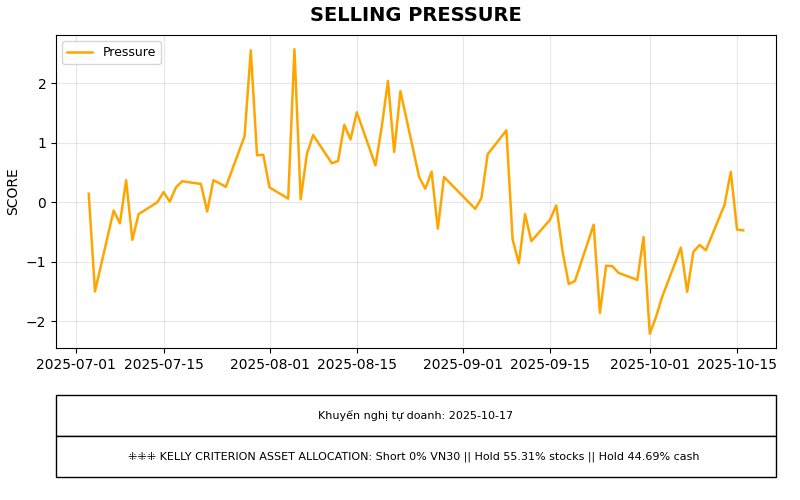
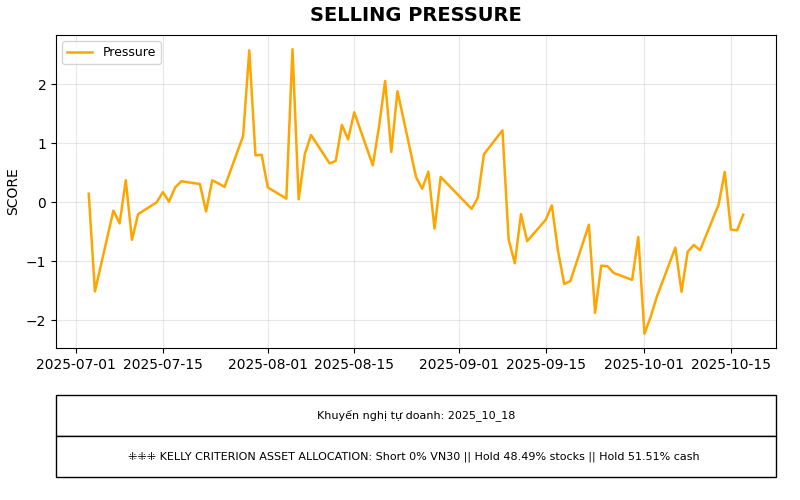
18-10

diff --git a/send_noti.py b/send_noti.py
@@ -2,7 +2,7 @@ import requests
 from datetime import date, datetime, timezone, timedelta
 import json
 import pandas as pd
-from weighting.func_ranking import message
+# from weighting.func_ranking import message
 
 WEBHOOK_URL_REGIME = "https://defaultfaae79b27e8f423993e3c7b5cb5b2e.4b.environment.api.powerplatform.com:443/powerautomate/automations/direct/workflows/4fd6c1601f964b629b661216b6e77d77/triggers/manual/paths/invoke?api-version=1&sp=%2Ftriggers%2Fmanual%2Frun&sv=1.0&sig=iMCAtWfMIRWmYuLWWUtLZUuT4-JpXmHjw6v0IdWXAxE"
 WEBHOOK_URL_AA = "https://defaultfaae79b27e8f423993e3c7b5cb5b2e.4b.environment.api.powerplatform.com:443/powerautomate/automations/direct/workflows/3975339ef26c47829f1d26865d746a7c/triggers/manual/paths/invoke?api-version=1&sp=%2Ftriggers%2Fmanual%2Frun&sv=1.0&sig=SK1Fzr1fRsbfp9zxnHNmqaJXO65JR9pIanZLZ8G8qck"
@@ -50,9 +50,9 @@ if __name__ == "__main__":
         print("Status:", asset_allocation.status_code)
         print("Response:", asset_allocation.text)
 
-        # Send Weight
-        weight = send_teams_message(WEBHOOK_URL_WEIGHT, message)
-        print("Status:", weight.status_code)
-        print("Response:", weight.text)
+        # # Send Weight
+        # weight = send_teams_message(WEBHOOK_URL_WEIGHT, message)
+        # print("Status:", weight.status_code)
+        # print("Response:", weight.text)
     except requests.RequestException as e:
         print("Request failed:", e)

diff --git a/main.py b/main.py
@@ -27,7 +27,7 @@ tomorrow_str = (date.today() + pd.Timedelta(days=1)).strftime("%Y_%m_%d")
 table_data = [
     [asset_allocation]
 ]
-column_header = [f"Khuyến nghị tự doanh: {today_str}"]
+column_header = [f"Khuyến nghị tự doanh: {tomorrow_str}"]
 
 # ================================
 # Figure and layout (2 rows: plot + table)
